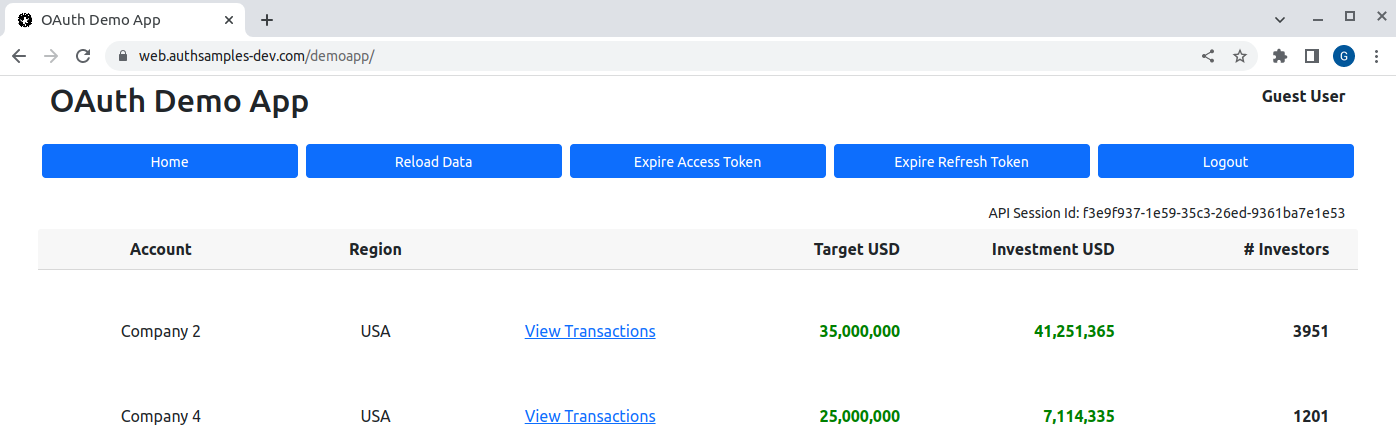
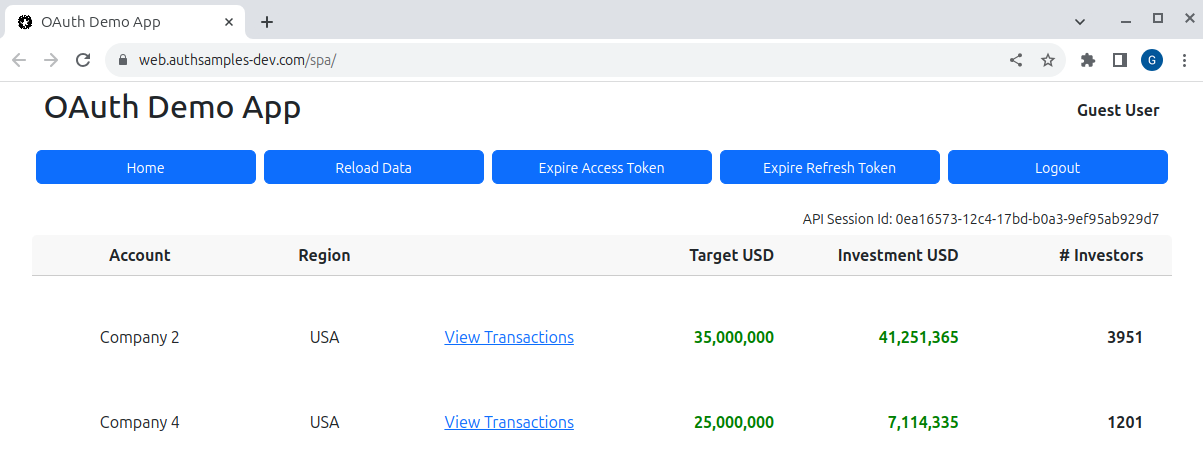
Updates

diff --git a/webhost/src/webStaticContent.ts b/webhost/src/webStaticContent.ts
@@ -29,7 +29,13 @@ export class WebStaticContent {
         this._express.get('*', (request, response) => {
 
             const requestPath = request.path.toLowerCase();
-            if (requestPath.startsWith(spaBasePath)) {
+            if (requestPath === '/favicon.ico') {
+
+                // Serve the root level favico.ico file
+                const root = this._getRootFilesBasePath();
+                response.sendFile('favicon.ico', {root});
+
+            } else if (requestPath.startsWith(spaBasePath)) {
 
                 // Within the SPA serve the defeault document
                 response.sendFile('index.html', {root: spaRoot});
@@ -40,6 +46,23 @@ export class WebStaticContent {
                 response.redirect(spaBasePath);
             }
         });
+    }
+
+    /*
+     * Return the relative path to the root folder containing the favicon.ico file
+     */
+    private _getRootFilesBasePath(): string {
+
+        if (this._configuration.mode === 'development') {
+
+            // During development, point to built SPA files
+            return '../spa';
+
+        } else {
+
+            // In Docker development setups, the files are packaged to a subfolder of the web host
+            return './';
+        }
     }
 
     /*

diff --git a/cloudfront-extensions/src/defaultDocument.ts b/cloudfront-extensions/src/defaultDocument.ts
@@ -10,6 +10,11 @@ const handler = async (event: any, context: Context) => {
     const request = event.Records[0].cf.request;
     const requestUri = request.uri.toLowerCase();
 
+    // Handle the request for favicon.ico
+    if (requestUri === '/favicon.ico') {
+        return request;
+    }
+
     // For invalid paths, redirect to the SPA
     const spaBasePath = '/spa/';
     if (!requestUri.startsWith(spaBasePath)) {
@@ -26,12 +31,11 @@ const handler = async (event: any, context: Context) => {
         };
     }
 
-    // Otherwise, first serve files for known extensions
+    // Otherwise, serve files for known extensions
     const extensions = [
         '.html',
         '.js',,
-        '.css',
-        '.ico',
+        '.css'
     ];
 
     const knownExtension = extensions.find((ext) => {

diff --git a/README.md b/README.md
@@ -10,7 +10,7 @@
 
 The final demo Single Page Application, which aims for a [Web Architecture](https://authguidance.com/web-architecture-goals/) with best capabilities:
 
-- The SPA uses an API driven OpenID Connect solution via the [Token Handler Pattern](https://github.com/curityio/spa-using-token-handler)
+- The SPA uses an API driven OpenID Connect solution based on the [Token Handler Example](https://github.com/curityio/spa-using-token-handler)
 - Only the most secure cookies are used, with no tokens in the browser
 - Only client side React technology is needed to implement the SPA, for productive development
 - The SPA is deployed to many global locations via a Content Delivery Network (CDN)
